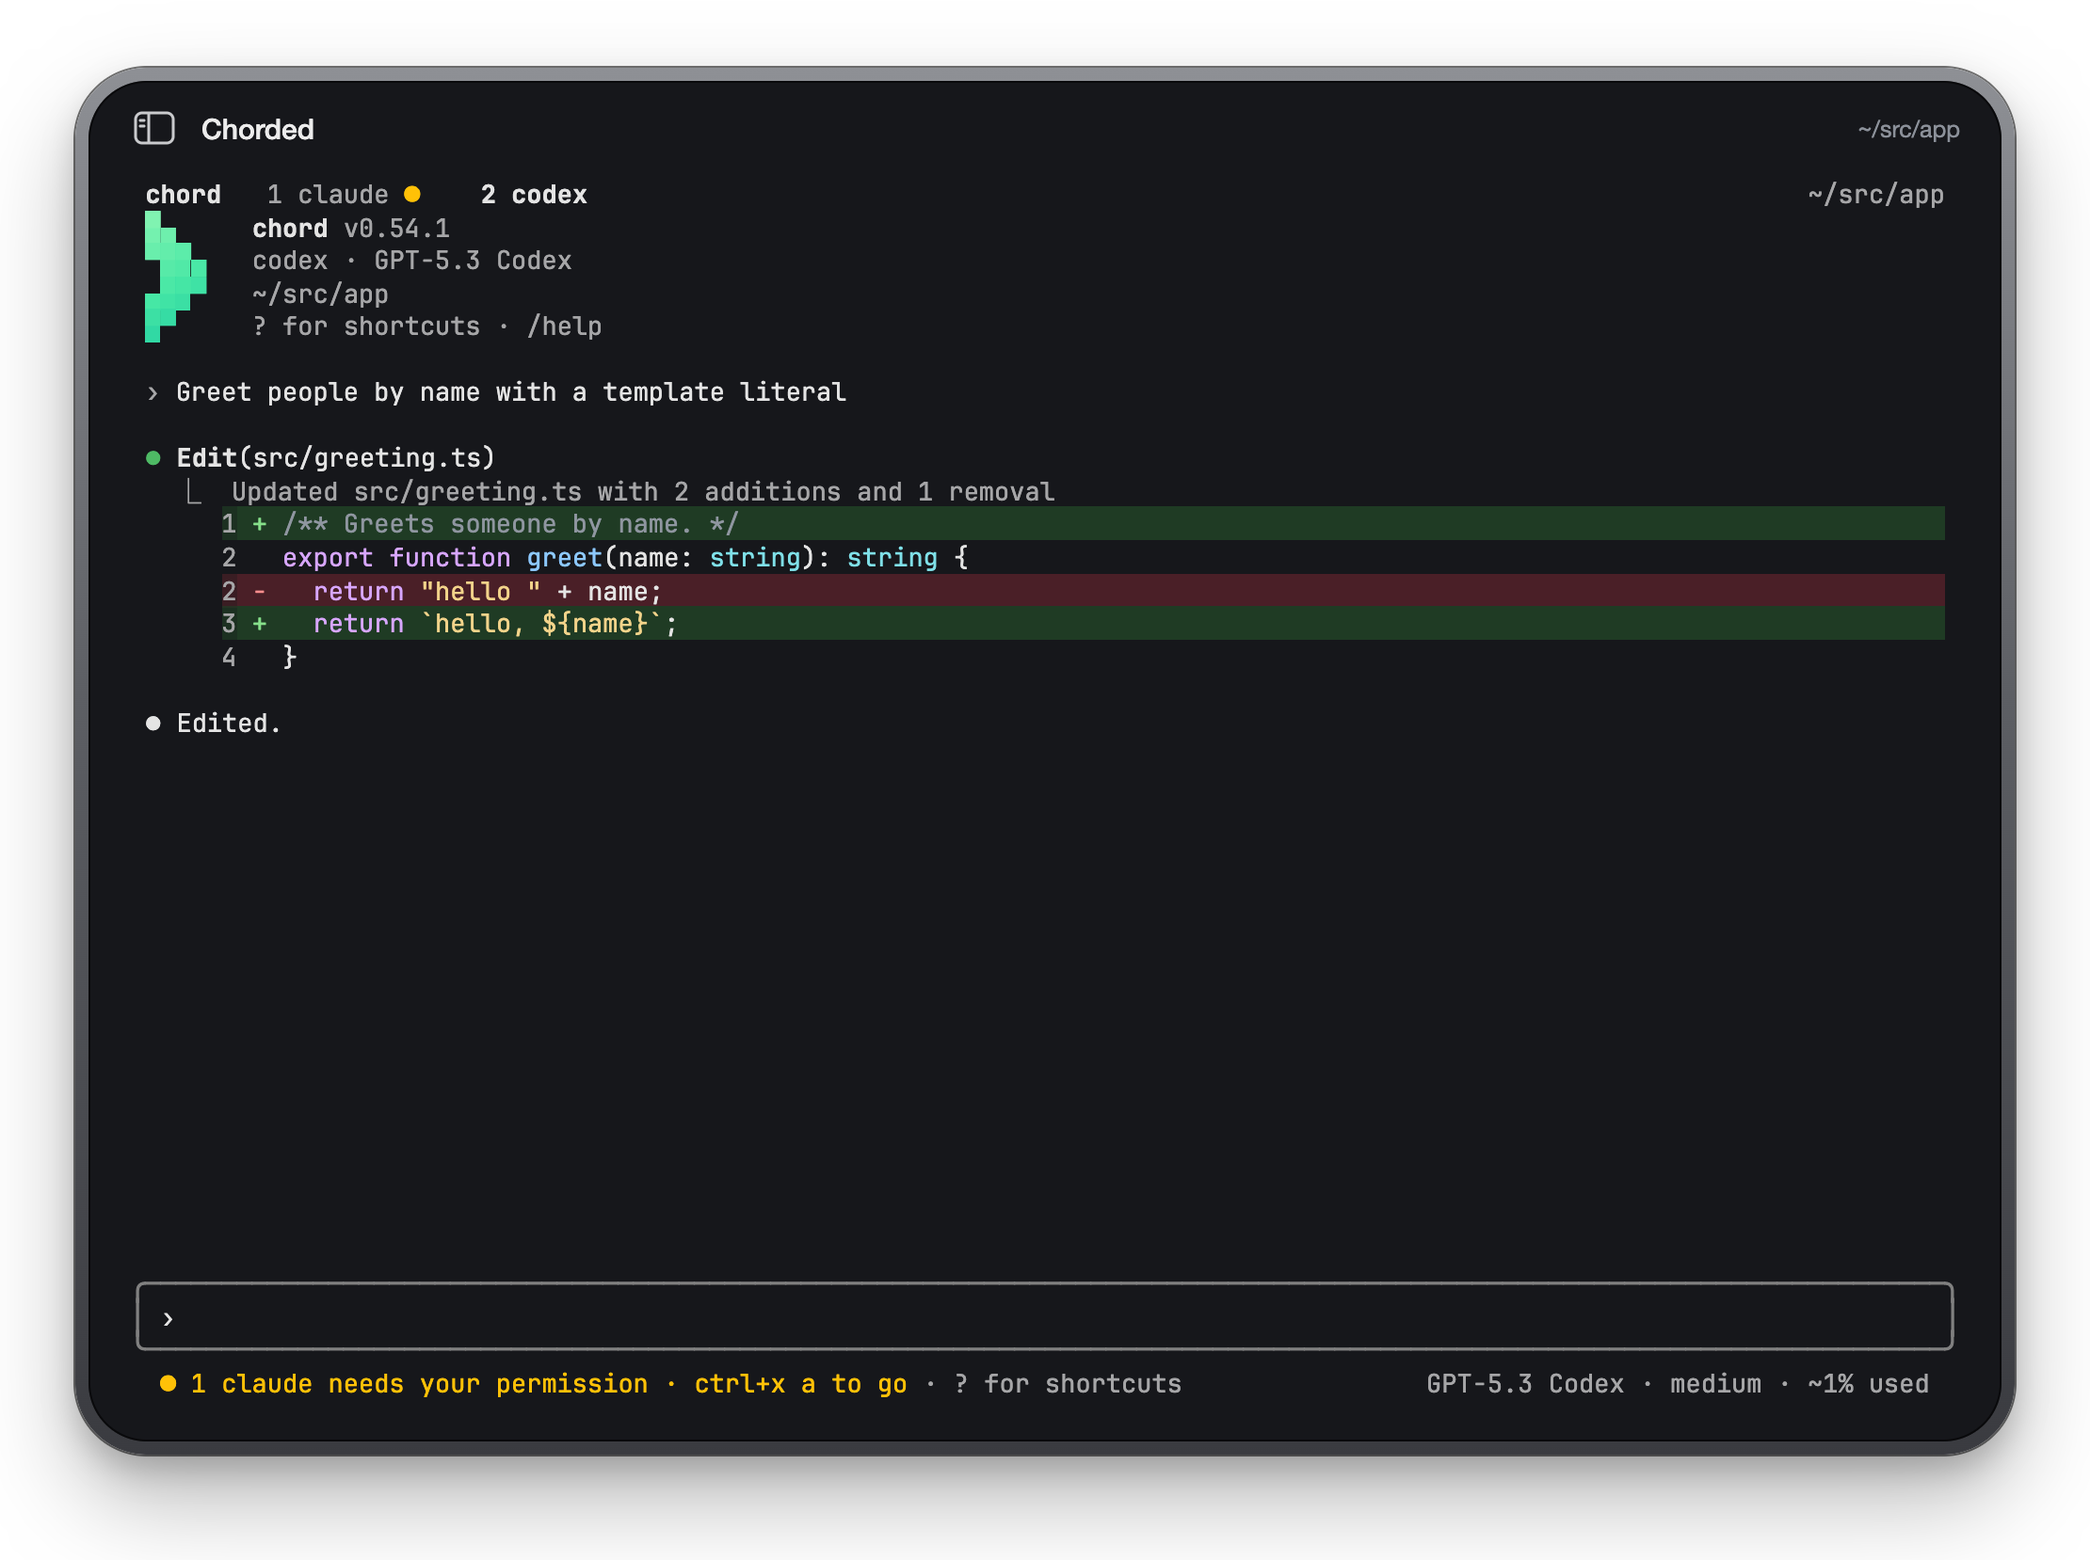
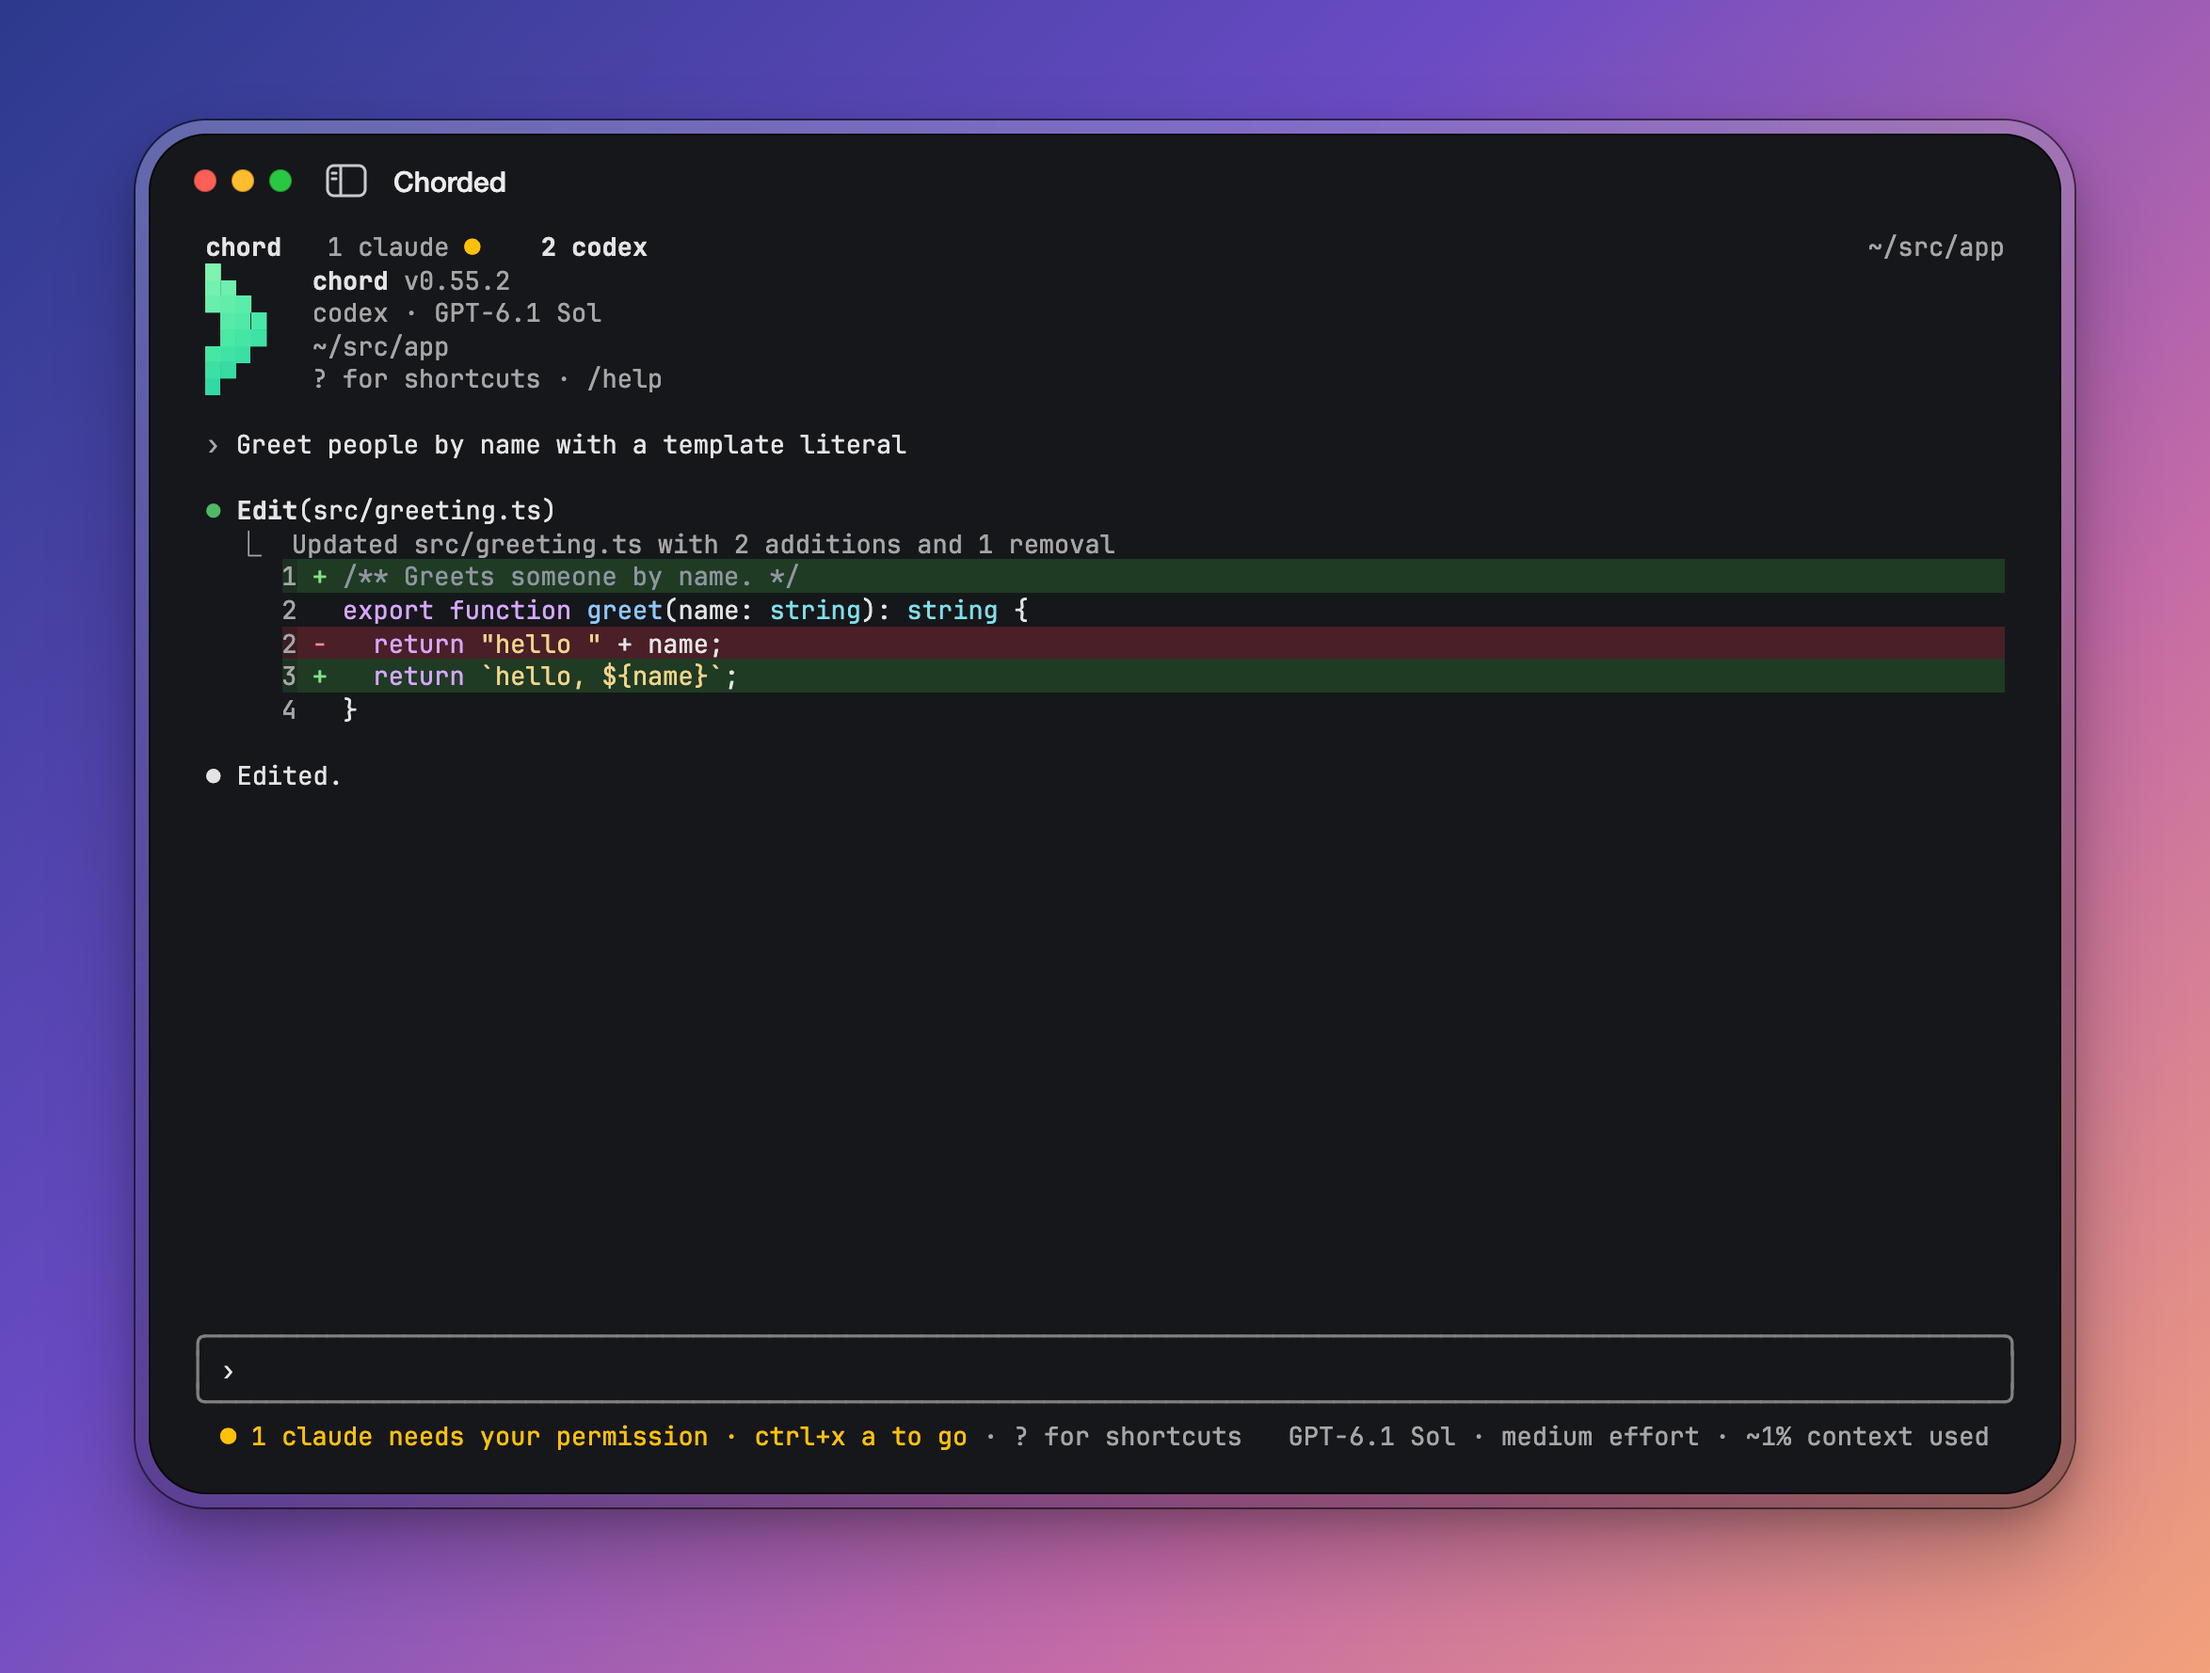
docs(readme): tabs.png on a gradient backdrop with window controls (CHD-407 R1)
The shots draw Chorded's window on a gradient, with traffic lights, a rim
the backdrop shows through a little, and no project path in its title bar,
as the owner chose (Q54); the fake's --tokens-only also offers Claude Opus
5.5 and GPT-6.1 Sol for them (Q55), and the shots' team lives beside the
script. Only tabs.png is retaken.

diff --git a/scripts/dev/screenshots.ts b/scripts/dev/screenshots.ts
@@ -14,9 +14,11 @@
  *
  * chord runs in a home of its own under a temporary directory, so nothing
  * of the person's settings, records or teams reaches a shot. There the
- * settings name the fake agent `claude` and `codex`, on the two real models
- * its `--tokens-only` offers, and the scenario each shot plays comes from
- * `CHORD_FAKE_SCENARIO`, so the prompt typed can be a person's words.
+ * settings name the fake agent `claude` and `codex`, on Claude Opus 5.5 and
+ * GPT-6.1 Sol, which its `--tokens-only` offers, the team the shots run is
+ * `screenshots_team.md` beside this script, and the scenario each shot
+ * plays comes from `CHORD_FAKE_SCENARIO`, so the prompt typed can be a
+ * person's words.
  *
  * Chrome is the system's: `CHROME` names its binary where it is not at
  * macOS's usual place.
@@ -196,28 +198,21 @@ async function world(dir: string, team: boolean): Promise<string> {
       theme: 'dark',
       agent: 'claude',
       agents: {
-        claude: { command: fake, model: 'claude-haiku-4-5' },
-        codex: { command: fake, model: 'gpt-5.3-codex' },
+        claude: { command: fake, model: 'claude-opus-5-5' },
+        codex: { command: fake, model: 'gpt-6.1-sol' },
       },
     }),
   );
 
   if (team) {
-    // The fixture's team, on the two names the settings give the fake.
-    const file = await readFile(
-      join(ROOT, 'tests', 'fixtures', 'teams', 'fake', 'bugfix.md'),
-      'utf8',
-    );
-
+    // The shots' own team, beside this script, on the two names the
+    // settings give the fake.
     await writeFile(
       join(project, '.chord', 'teams', 'bugfix.md'),
-      file
-        .replace(
-          /(name: coder\n[^\n]*\n)\s+agent: fake\n\s+model: fake-large/u,
-          '$1    agent: codex\n    model: gpt-5.3-codex',
-        )
-        .replaceAll('agent: fake', 'agent: claude')
-        .replaceAll(/model: fake-(large|small)/gu, 'model: claude-haiku-4-5'),
+      await readFile(
+        join(ROOT, 'scripts', 'dev', 'screenshots_team.md'),
+        'utf8',
+      ),
     );
   }
 
@@ -303,11 +298,18 @@ function page(frame: string): string {
   @font-face { font-family: Term; src: local('JetBrains Mono'), local('JetBrainsMono-Regular'); }
   @font-face { font-family: Term; font-weight: bold; src: local('JetBrains Mono Bold'), local('JetBrainsMono-Bold'); }
   html, body { margin: 0; background: transparent; }
-  .page { padding: 36px 40px 56px; display: inline-block; }
-  /* Chorded's window: a metal rim around a dark pane, its corners round. */
+  /* The window on a gradient, as Chorded's own pictures show it (CHD-407). */
+  .page {
+    padding: 64px 72px 88px; display: inline-block; position: relative;
+    overflow: hidden; isolation: isolate;
+    background: linear-gradient(135deg, #2b3a8c 0%, #6a4bc4 38%, #c46aa8 70%, #f2a17a 100%);
+  }
+  /* Chorded's window: a metal rim around a dark pane, its corners round; the
+     rim lets the backdrop through a little, the pane does not. */
   .rim {
     padding: 7px; border-radius: 38px;
-    background: linear-gradient(180deg, #8e9095 0%, #5d5f64 45%, #3a3b40 100%);
+    background: linear-gradient(180deg, rgba(142, 144, 149, 0.55) 0%, rgba(93, 95, 100, 0.55) 45%, rgba(58, 59, 64, 0.55) 100%);
+    backdrop-filter: blur(24px) saturate(1.6);
     box-shadow:
       0 0 0 1px rgba(0, 0, 0, 0.55),
       0 24px 48px rgba(0, 0, 0, 0.28),
@@ -325,8 +327,9 @@ function page(frame: string): string {
     font-family: -apple-system, 'SF Pro Text', 'Helvetica Neue', sans-serif;
   }
   .bar svg { flex: none; }
+  .lights { display: flex; gap: 8px; flex: none; margin-right: 4px; }
+  .lights i { width: 12px; height: 12px; border-radius: 50%; box-shadow: inset 0 0 0 0.5px rgba(0, 0, 0, 0.25); }
   .title { font-size: 15px; font-weight: 500; color: #ececec; }
-  .where { margin-left: auto; font-size: 12.5px; color: #8b9099; }
   .screen {
     padding: 2px 22px 22px; color: ${FOREGROUND};
     font: 13.5px/1.3 Term, Menlo, monospace; white-space: pre;
@@ -336,12 +339,12 @@ function page(frame: string): string {
 </style>
 <div class="page"><div class="rim"><div class="window">
   <div class="bar">
+    <span class="lights"><i style="background: #ff5f57"></i><i style="background: #febc2e"></i><i style="background: #28c840"></i></span>
     <svg width="22" height="18" viewBox="0 0 22 18" fill="none" stroke="#c9cacd" stroke-width="1.5">
       <rect x="1" y="1" width="20" height="16" rx="3.5"/><line x1="8" y1="1" x2="8" y2="17"/>
       <line x1="3.5" y1="5" x2="5.5" y2="5" stroke-linecap="round"/><line x1="3.5" y1="8" x2="5.5" y2="8" stroke-linecap="round"/>
     </svg>
     <div class="title">Chorded</div>
-    <div class="where">~/src/app</div>
   </div>
   <div class="screen">${rows}</div>
 </div></div></div>`;
@@ -357,7 +360,7 @@ export async function screenshots(names: readonly string[]): Promise<void> {
 
     const tab = await browser.newPage();
 
-    await tab.setViewport({ width: 1400, height: 900, deviceScaleFactor: 2 });
+    await tab.setViewport({ width: 1600, height: 1000, deviceScaleFactor: 2 });
 
     for (const shot of SHOTS) {
       if (only.size > 0 && !only.has(shot.name)) {
@@ -373,10 +376,8 @@ export async function screenshots(names: readonly string[]): Promise<void> {
         throw new Error(`${shot.name}: nothing was drawn.`);
       }
 
-      await element.screenshot({
-        path: join(IMAGES, `${shot.name}.png`),
-        omitBackground: true,
-      });
+      // Square and opaque, the backdrop to the picture's edge.
+      await element.screenshot({ path: join(IMAGES, `${shot.name}.png`) });
       console.log(`docs/images/${shot.name}.png`);
     }
   } finally {

diff --git a/tests/fixtures/fake_agent/main.ts b/tests/fixtures/fake_agent/main.ts
@@ -30,8 +30,9 @@
  * none, as an agent that says nothing of its usage would. Started with
  * `--tokens-only`, or with `CHORD_FAKE_TOKENS_ONLY=1`, it reports the turn's
  * tokens in its answer and nothing else, no cost and no window, as Codex's
- * adapter can; its two models are then real ones, `gpt-5.3-codex` and
- * `claude-haiku-4-5`, which chord's price data knows.
+ * adapter can; its models are then real ones chord's price data knows,
+ * `gpt-5.3-codex` (in use until switched), `claude-haiku-4-5`, and the
+ * README's screenshots' `claude-opus-5-5` and `gpt-6.1-sol`.
  *
  * It takes images in a prompt, and answers each one first with a line naming
  * its media type and its size in bytes, so a capture shows what arrived, and

diff --git a/tests/fixtures/fake_agent/sessions.ts b/tests/fixtures/fake_agent/sessions.ts
@@ -34,11 +34,16 @@ export const AVAILABLE_EFFORTS = [
   { value: 'high', name: 'High' },
 ];
 
-/** The two models every session offers, the first in use until switched. */
+/**
+ * The models every session offers, the first in use until switched. With
+ * real ones, the README's screenshots' two come after (CHD-407).
+ */
 export const AVAILABLE_MODELS = TOKENS_ONLY
   ? [
       { value: 'gpt-5.3-codex', name: 'GPT-5.3 Codex' },
       { value: 'claude-haiku-4-5', name: 'Claude Haiku 4.5' },
+      { value: 'claude-opus-5-5', name: 'Claude Opus 5.5' },
+      { value: 'gpt-6.1-sol', name: 'GPT-6.1 Sol' },
     ]
   : [
       { value: 'fake-large', name: 'Fake Large with a 1M context window' },

diff --git a/scripts/dev/screenshots_team.md b/scripts/dev/screenshots_team.md
@@ -1,0 +1,53 @@
+---
+description: Fixes a bug end to end — a failing test first, then the fix, then a review.
+lead:
+  agent: claude
+  model: claude-opus-5-5
+  mode: default
+  instructions: |
+    Read the job and the code it points at until you can name the cause and
+    the files involved. Then open tester first, coder only once tester's
+    test fails for the bug's own reason, and reviewer once the fix is in.
+    You edit nothing yourself.
+members:
+  - name: tester
+    role: Writes the failing test, then proves the fix
+    agent: claude
+    model: claude-opus-5-5
+    mode: acceptEdits
+    instructions: |
+      Write the smallest test that fails because of the bug, not for any
+      other reason, and run it to show that.
+  - name: coder
+    role: Writes the fix, in the files the lead names
+    agent: codex
+    model: gpt-6.1-sol
+    mode: plan
+    instructions: |
+      Make the failing test pass with the smallest change that fixes the
+      cause. Do not touch tests.
+  - name: reviewer
+    role: Reads the diff and edits nothing
+    agent: claude
+    model: claude-opus-5-5
+    mode: plan
+    instructions: |
+      Read the diff against the job and the failing test. Report what is
+      wrong or missing to the lead; change nothing yourself.
+---
+
+# How bugfix works
+
+1. The lead reads the job and names who may edit which files.
+2. tester writes a test that fails for the bug's own reason, in `tests/`.
+3. coder fixes the code so that test passes, and never edits `tests/`.
+4. reviewer reads the diff and edits nothing.
+
+## Who edits what
+
+- One writer per file at a time; a member asks a file's owner directly.
+- Another run of a team may be working here: the leads agree on files.
+
+## Reporting
+
+The lead writes to main when the job is done or cannot be done.
